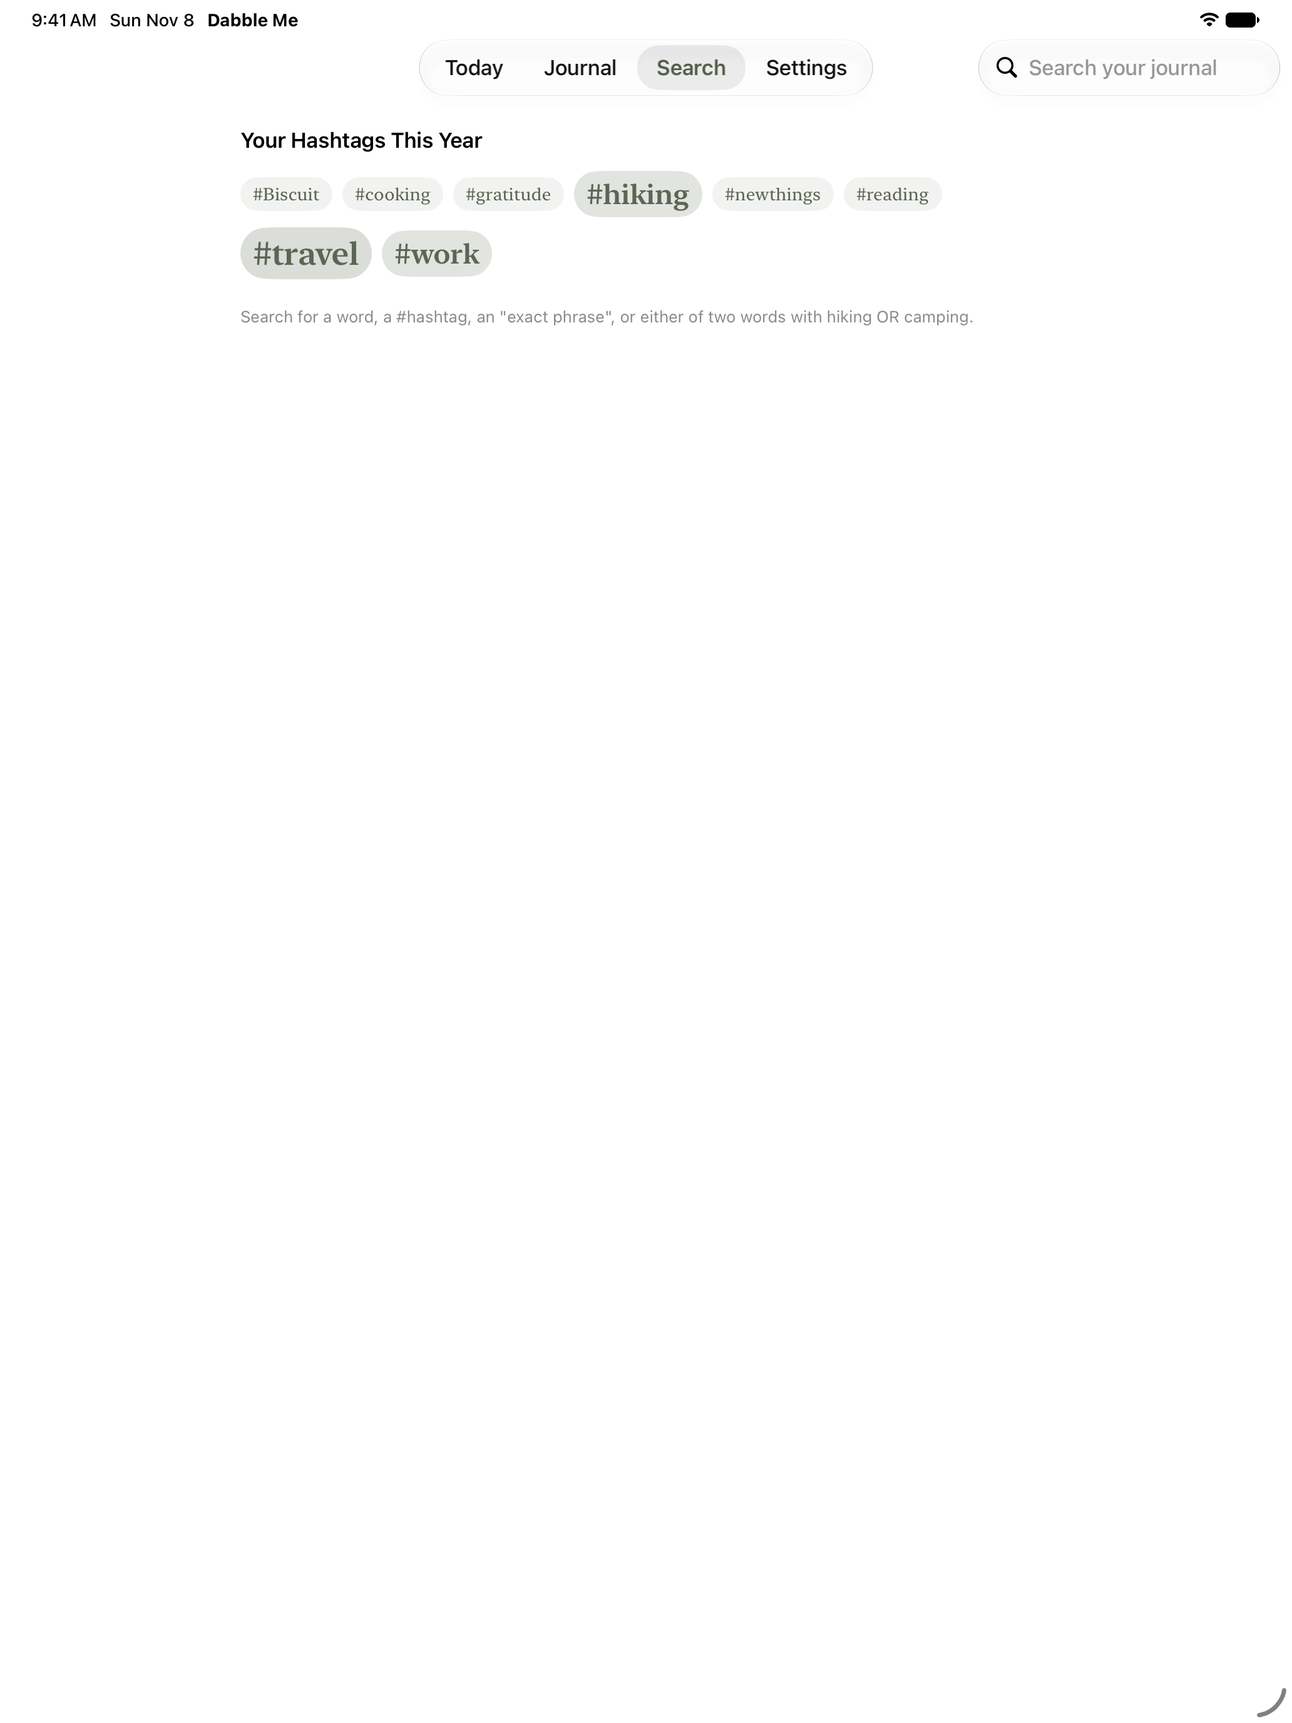
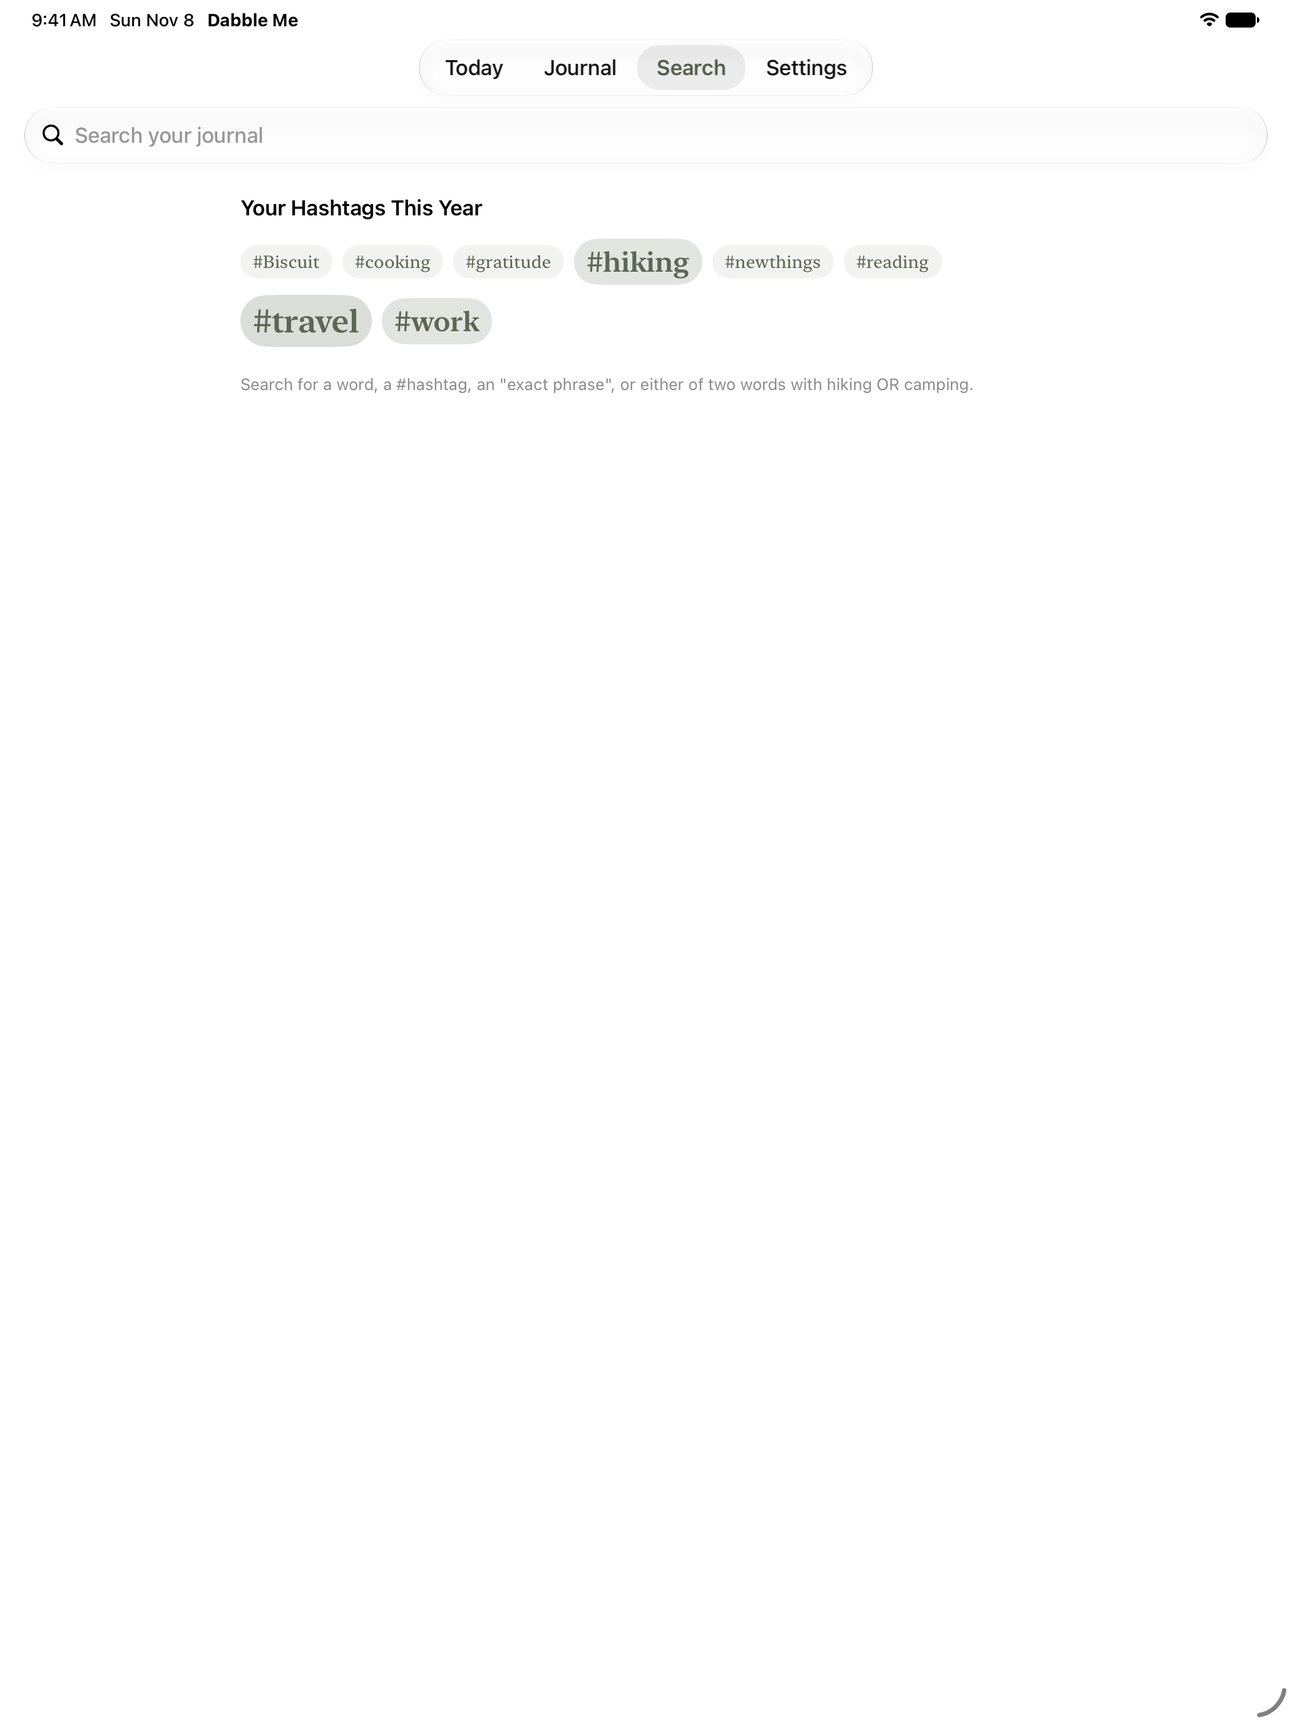
iOS: keyboard dictation only; sticky search field; photo X inside its corner
- Remove the in-app dictation mic. The keyboard's own dictation is
  better (on device for most languages, punctuation, emoji, voice
  editing) and two mics side by side were confusing. Drops the
  microphone and speech-recognition permission prompts too.
- Search keeps its field at the top while results scroll.
- The remove-photo X sits inside the thumbnail's corner instead of
  being clipped by the photo strip.
- Screenshots and copy updated; build 19.

diff --git a/ios/DabbleMe/Views/RichTextEditor.swift b/ios/DabbleMe/Views/RichTextEditor.swift
@@ -59,62 +59,6 @@ final class RichTextEditorModel {
         textDidChange()
     }
 
-    // MARK: - Dictation (PRO, on device)
-
-    private(set) var isDictating = false
-    var dictationError: String?
-    @ObservationIgnored private lazy var dictation = Dictation()
-    /// Where the current dictation's words are, so each new transcript replaces the last.
-    @ObservationIgnored private var dictationRange = NSRange(location: 0, length: 0)
-    @ObservationIgnored private var dictationPrefix = ""
-
-    func toggleDictation() {
-        if isDictating {
-            dictation.stop()
-        } else {
-            Task { await startDictation() }
-        }
-    }
-
-    func stopDictation() {
-        dictation.stop()
-    }
-
-    private func startDictation() async {
-        guard let textView else { return }
-        let selection = textView.selectedRange
-        let string = textView.text as NSString
-        // Separate from the word before the cursor.
-        let before = selection.location > 0 ? string.substring(with: NSRange(location: selection.location - 1, length: 1)) : "\n"
-        dictationPrefix = before.rangeOfCharacter(from: .whitespacesAndNewlines) == nil ? " " : ""
-        dictationRange = selection
-        dictation.onTranscript = { [weak self] text in self?.insertTranscript(text) }
-        dictation.onStateChange = { [weak self] listening in
-            self?.isDictating = listening
-            self?.onDictationStateChange(listening)
-        }
-        do {
-            try await dictation.start()
-        } catch {
-            dictationError = error.localizedDescription
-        }
-    }
-
-    @ObservationIgnored fileprivate var onDictationStateChange: (Bool) -> Void = { _ in }
-
-    private func insertTranscript(_ transcript: String) {
-        guard let textView, !transcript.isEmpty else { return }
-        let storage = textView.textStorage
-        guard dictationRange.location + dictationRange.length <= storage.length else { return }
-        let text = dictationPrefix + transcript
-        let attributes = textView.typingAttributes
-        storage.replaceCharacters(in: dictationRange, with: NSAttributedString(string: text, attributes: attributes))
-        dictationRange = NSRange(location: dictationRange.location, length: (text as NSString).length)
-        textView.selectedRange = NSRange(location: dictationRange.location + dictationRange.length, length: 0)
-        textView.scrollRangeToVisible(textView.selectedRange)
-        textDidChange()
-    }
-
     /// Replaces everything in the editor (e.g. "Start Over" on a restored draft).
     func replace(with blocks: [DocumentBlock]) {
         textView?.attributedText = RichText.attributedString(from: blocks, style: .journal)
@@ -243,13 +187,11 @@ struct EditorInsertItem {
 
 struct RichTextEditor: UIViewRepresentable {
     let model: RichTextEditorModel
-    /// Shows the dictation (microphone) button in the bar.
-    var allowsDictation = false
     var insertItems: [EditorInsertItem] = []
 
     /// Changes when the bar's buttons need rebuilding.
     fileprivate var barKey: String {
-        "\(allowsDictation)|" + insertItems.map { "\($0.title)\($0.isEnabled)\($0.subtitle ?? "")" }.joined(separator: "|")
+        insertItems.map { "\($0.title)\($0.isEnabled)\($0.subtitle ?? "")" }.joined(separator: "|")
     }
 
     func makeUIView(context: Context) -> UITextView {
@@ -305,17 +247,15 @@ struct RichTextEditor: UIViewRepresentable {
         fileprivate var barKey = ""
         /// The latest menu actions (their closures change as the composer's state does).
         var insertItems: [EditorInsertItem] = []
-        private weak var micItem: UIBarButtonItem?
 
         func makeToolbar(for editor: RichTextEditor) -> UIToolbar {
             let toolbar = UIToolbar(frame: CGRect(x: 0, y: 0, width: 320, height: 60))
             configure(toolbar, for: editor)
-            model.onDictationStateChange = { [weak self] listening in self?.updateMic(listening: listening) }
             return toolbar
         }
 
-        /// "+" (photos, hashtag suggestions), link, and dictation. Bold, italic and underline are in
-        /// the text's edit menu (Format), and typing "- " or "1. " starts a list.
+        /// "+" (photos, hashtag suggestions) and link. Bold, italic and underline are in the text's
+        /// edit menu (Format), typing "- " or "1. " starts a list, and the keyboard has dictation.
         func configure(_ toolbar: UIToolbar, for editor: RichTextEditor) {
             barKey = editor.barKey
             insertItems = editor.insertItems
@@ -343,19 +283,7 @@ struct RichTextEditor: UIViewRepresentable {
             }
             items.append(.flexibleSpace())
             items.append(item("link", "Link") { $0.beginLink() })
-            if editor.allowsDictation {
-                let mic = item("mic", "Dictate") { $0.toggleDictation() }
-                micItem = mic
-                items.append(mic)
-            }
             toolbar.items = items
-            updateMic(listening: model.isDictating)
-        }
-
-        private func updateMic(listening: Bool) {
-            micItem?.image = UIImage(systemName: listening ? "stop.circle.fill" : "mic")
-            micItem?.tintColor = listening ? .systemRed : nil
-            micItem?.accessibilityLabel = listening ? "Stop Dictating" : "Dictate"
         }
     }
 }
@@ -376,11 +304,6 @@ extension View {
             Button("Cancel", role: .cancel) {}
         } message: {
             Text("Select text first to link it, or add a web address on its own.")
-        }
-        .alert("Can't dictate", isPresented: .present($model.dictationError)) {
-            Button("OK", role: .cancel) {}
-        } message: {
-            Text(model.dictationError ?? "")
         }
     }
 }

diff --git a/ios/DabbleMeUITests/JournalViewsTests.swift b/ios/DabbleMeUITests/JournalViewsTests.swift
@@ -78,6 +78,11 @@ final class JournalViewsTests: XCTestCase {
         XCTAssertTrue(tag.exists)
         tag.tap()
         XCTAssertTrue(app.staticTexts.matching(NSPredicate(format: "label ENDSWITH 'entries' OR label ENDSWITH 'entry'")).firstMatch.waitForExistence(timeout: 10))
+        // The search field stays at the top while the results scroll.
+        app.swipeUp()
+        app.swipeUp()
+        XCTAssertTrue(app.searchFields.firstMatch.isHittable)
+        snap("search-sticky")
     }
 
     /// Lists hang in the editor; PRO gets on-device hashtag suggestions (when Apple Intelligence is available).
@@ -98,7 +103,7 @@ final class JournalViewsTests: XCTestCase {
         XCTAssertTrue(text.contains("• The rainbow"), text)
         XCTAssertTrue(text.contains("• Cold sandwiches"), text)
         XCTAssertFalse(app.buttons["Bold"].exists)
-        print("MIC_PRESENT=\(app.buttons["Dictate"].exists)")
+        XCTAssertFalse(app.toolbars.buttons["Dictate"].exists, "Dictation is the keyboard's own")
 
         app.buttons["Add"].tap()
         let suggest = app.buttons["Suggest Hashtags"]
@@ -221,34 +226,5 @@ final class JournalViewsTests: XCTestCase {
         chip.press(forDuration: 1.2)
         XCTAssertTrue(app.staticTexts.matching(NSPredicate(format: "label CONTAINS %@", "since entry")).firstMatch.waitForExistence(timeout: 5))
         snap("hashtag-age")
-    }
-
-    /// Tapping the mic asks for speech and microphone access and starts listening, without crashing.
-    func testDictationButtonStartsListening() throws {
-        let app = launch(["-DabbleDictationSkipAudio", "YES"])
-        let write = app.buttons["Write Today's Entry"].waitForExistence(timeout: 15) ? app.buttons["Write Today's Entry"] : app.buttons["Add to Today's Entry"]
-        XCTAssertTrue(write.waitForExistence(timeout: 5))
-        write.tap()
-        let editor = app.textViews["Entry"]
-        XCTAssertTrue(editor.waitForExistence(timeout: 5))
-        editor.tap()
-        if app.buttons["Continue"].waitForExistence(timeout: 2) { app.buttons["Continue"].tap() }
-        let mic = app.toolbars.buttons["Dictate"].firstMatch // not the keyboard's own dictation key
-        guard mic.waitForExistence(timeout: 3) else { throw XCTSkip("On-device speech isn't available on this simulator") }
-        mic.tap()
-        // Permission prompts (speech, then microphone) come from SpringBoard.
-        let springboard = XCUIApplication(bundleIdentifier: "com.apple.springboard")
-        for _ in 0..<2 {
-            let allow = springboard.buttons.matching(NSPredicate(format: "label IN {'Allow', 'OK'}")).firstMatch
-            if allow.waitForExistence(timeout: 4) { allow.tap() }
-        }
-        sleep(3)
-        XCTAssertEqual(app.state, .runningForeground, "The app should still be running after tapping the mic")
-        XCTAssertTrue(app.toolbars.buttons["Stop Dictating"].firstMatch.waitForExistence(timeout: 5), "Listening after permission")
-        snap("dictation")
-        let stop = app.toolbars.buttons["Stop Dictating"].firstMatch
-        if stop.exists { stop.tap() }
-        sleep(1)
-        XCTAssertEqual(app.state, .runningForeground)
     }
 }

diff --git a/ios/DabbleMe/Views/ComposeView.swift b/ios/DabbleMe/Views/ComposeView.swift
@@ -73,8 +73,7 @@ struct ComposeView: View {
             VStack(spacing: 0) {
                 if restoredDraft != nil { draftBanner }
                 Divider()
-                RichTextEditor(model: editor, allowsDictation: model.me?.isPro == true && Dictation.isSupported,
-                               insertItems: insertItems)
+                RichTextEditor(model: editor, insertItems: insertItems)
                     .overlay(alignment: .topLeading) {
                         if editor.isEmpty {
                             Text("How was your day?")
@@ -122,7 +121,6 @@ struct ComposeView: View {
             .confirmationDialog(isNew ? "Discard this entry?" : "Discard your changes?",
                                 isPresented: $confirmingDiscard, titleVisibility: .visible) {
                 Button("Discard", role: .destructive) {
-                    editor.stopDictation()
                     DraftStore.clear(draftKey)
                     dismiss()
                 }
@@ -141,7 +139,6 @@ struct ComposeView: View {
             } message: {
                 Text(suggestionError ?? "")
             }
-            .onDisappear { editor.stopDictation() }
             .onChange(of: photoItems) { Task { await preparePhotos() } }
             #if DEBUG
             .task { await attachDebugPhotos() }
@@ -321,8 +318,8 @@ struct ComposeView: View {
                 Image(systemName: "xmark.circle.fill")
                     .symbolRenderingMode(.palette)
                     .foregroundStyle(.white, .black.opacity(0.6))
+                    .padding(3) // inside the corner: the photo strip clips anything outside it
             }
-            .offset(x: 6, y: -6)
             .accessibilityLabel("Remove photo")
             .disabled(isSaving)
         }
@@ -421,7 +418,6 @@ struct ComposeView: View {
     }
 
     private func save() async {
-        editor.stopDictation()
         isSaving = true
         defer { isSaving = false }
         do {

diff --git a/ios/DabbleMe/Views/SearchView.swift b/ios/DabbleMe/Views/SearchView.swift
@@ -20,7 +20,9 @@ struct SearchView: View {
                     ProInfoView(feature: .search, showsDoneButton: false)
                 } else {
                     resultsList
-                        .searchable(text: $query, isPresented: $isSearchActive, prompt: "Search your journal")
+                        // Always visible at the top, not tucked away when the results scroll.
+                        .searchable(text: $query, isPresented: $isSearchActive,
+                                    placement: .navigationBarDrawer(displayMode: .always), prompt: "Search your journal")
                         .onChange(of: model.searchFocusRequest) { isSearchActive = true }
                         .onSubmit(of: .search) { Task { await search(reset: true) } }
                         .onChange(of: query) { _, newValue in

diff --git a/ios/README.md b/ios/README.md
@@ -1,8 +1,8 @@
 # Dabble Me for iOS
 
-Native SwiftUI companion to the email journal: Today (prompt + On This Day), the Journal timeline with List / Stats / Photos views, search with a hashtag cloud, writing and editing with rich text, photos and dictation, reminders, a Face ID lock, a home-screen widget, and on-device Apple Intelligence.
+Native SwiftUI companion to the email journal: Today (prompt + On This Day), the Journal timeline with List / Stats / Photos views, search with a hashtag cloud, writing and editing with rich text and photos, reminders, a Face ID lock, a home-screen widget, and on-device Apple Intelligence.
 
-Email is still the primary way people write. Plan rules (see `ios/AppStore/metadata.md` → Decisions): everyone can sign in, read, write text, and see Stats, Photos and the widget; photos, editing/deleting, search, On This Day, reminders, dictation and on-device AI are PRO.
+Email is still the primary way people write. Plan rules (see `ios/AppStore/metadata.md` → Decisions): everyone can sign in, read, write text, and see Stats, Photos and the widget; photos, editing/deleting, search, On This Day, reminders and on-device AI are PRO.
 
 ## Requirements
 
@@ -56,11 +56,11 @@ The simulator reaches `localhost` directly. On a phone, "localhost" is the phone
 | GET | `/api/v1/hashtags?days=365` | PRO. Hashtag counts for the Search tag cloud (`Api::HashtagCounts`) |
 | POST | `/api/v1/image_uploads` | PRO. `{photos: [{filename, content_type}]}` (max 8) → presigned S3 PUTs; the keys go to `POST /entries` |
 
-**Rich text editing.** The app never parses or sends raw HTML. `Api::EntryDocument` turns stored HTML into a `document`: a list of paragraph / bullet / number / rule blocks made of text runs that may be bold, italic, underlined or linked. That covers what the web editor (Summernote) and email ingestion produce, including `<div>` lines from email and `<hr>` between merged replies. The app edits the document in a native text view (bold, italic and underline from the text's Format menu; typing "- ", "* " or "1. " starts a list; the bar has "+" for photos and hashtag suggestions, link, and dictation) and sends it back, and the server rebuilds clean HTML from it (`to_html`). Entries with anything the document can't represent — inline styles, blockquotes, images, DabbleMeGPT replies, nested lists — come back with `document: null` and show "Edit on dabble.me", so an in-app edit can never drop formatting.
+**Rich text editing.** The app never parses or sends raw HTML. `Api::EntryDocument` turns stored HTML into a `document`: a list of paragraph / bullet / number / rule blocks made of text runs that may be bold, italic, underlined or linked. That covers what the web editor (Summernote) and email ingestion produce, including `<div>` lines from email and `<hr>` between merged replies. The app edits the document in a native text view (bold, italic and underline from the text's Format menu; typing "- ", "* " or "1. " starts a list; the bar has "+" for photos and hashtag suggestions, and link; dictation is the keyboard's own) and sends it back, and the server rebuilds clean HTML from it (`to_html`). Entries with anything the document can't represent — inline styles, blockquotes, images, DabbleMeGPT replies, nested lists — come back with `document: null` and show "Edit on dabble.me", so an in-app edit can never drop formatting.
 
 **Widget.** `DabbleMeWidget` (WidgetKit) reads a `WidgetSnapshot` the app writes to the `group.me.dabble.ios` App Group after each refresh: streak, whether today is written, today's prompt and (only if turned on in Settings → Privacy) a count of On This Day memories. Never entry text. Tapping it opens `me.dabble.app:/write` or `:/today`.
 
-**On device only.** Dictation uses `SFSpeechRecognizer` with `requiresOnDeviceRecognition`; hashtag suggestions, "Reflect on This Entry" (the on-device version of the web's DabbleMeGPT life-coach reply) and Today's "Prompt from My Recent Entries" use Apple Intelligence's on-device model (`FoundationModels`, iOS 26+, hidden where unavailable). Reminders, the Face ID lock and drafts are local too.
+**On device only.** Hashtag suggestions, "Reflect on This Entry" (the on-device version of the web's DabbleMeGPT life-coach reply) and Today's "Prompt from My Recent Entries" use Apple Intelligence's on-device model (`FoundationModels`, iOS 26+, hidden where unavailable). Reminders, the Face ID lock and drafts are local too.
 
 **Photos** are re-encoded on the device to a JPEG of at most 2400px, with all metadata removed (including GPS) before upload. The server then processes them the same way as MCP uploads (`ProcessEntryImageJob`).
 

diff --git a/ios/AppStore/metadata.md b/ios/AppStore/metadata.md
@@ -32,7 +32,6 @@ Copy for App Store Connect (app ID 6832151292, bundle ID `me.dabble.ios`). Chara
 > WRITE YOUR WAY
 > • Bold, italic and underline, links, and lists that start as you type "- " or "1." 
 > • Add up to 8 photos. Several become a beautiful collage automatically
-> • Dictate instead of typing, transcribed on your device
 > • A daily writing prompt, written just for you from your recent days (on devices with Apple Intelligence)
 > • Unfinished entries are saved as you type, even if the app closes
 > • Prefer email? Reply to Dabble Me's "How was your day?" email and it becomes an entry too
@@ -67,7 +66,7 @@ Copy for App Store Connect (app ID 6832151292, bundle ID `me.dabble.ios`). Chara
 > • Sign in with a passkey, password, or two-factor code
 > • Export everything, any time
 >
-> Free accounts can read their journal, write entries, and see their stats. Photos, search, On This Day, reminders, dictation, Apple Intelligence features, and AI connections are part of Dabble Me PRO.
+> Free accounts can read their journal, write entries, and see their stats. Photos, search, On This Day, reminders, Apple Intelligence features, and AI connections are part of Dabble Me PRO.
 
 **Keywords (100)**: these don't repeat words already in the name, which Apple indexes anyway, and use no third-party trademarks (guideline 2.3.7).
 
@@ -94,7 +93,7 @@ Data used to track you: **none**. Data linked to you, all for **App Functionalit
 | User Content → Photos or Videos | Photos attached to entries |
 | Identifiers → User ID | Account identity |
 
-The app has no analytics or crash SDKs, and these answers match `DabbleMe/Resources/PrivacyInfo.xcprivacy`. Not collected: dictation audio and Apple Intelligence features run on the device; reminders, the Face ID setting and drafts stay on the device; the widget reads a streak count the app stores in its App Group.
+The app has no analytics or crash SDKs, and these answers match `DabbleMe/Resources/PrivacyInfo.xcprivacy`. Not collected: Apple Intelligence features run on the device; reminders, the Face ID setting and drafts stay on the device; the widget reads a streak count the app stores in its App Group.
 
 ## App Review information
 
@@ -123,5 +122,5 @@ In `ios/App Store Screenshots/`: **iPhone 6.3"** at 1206 × 2622 (iPhone 18 Pro 
 ## Decisions
 
 - **In-app purchase:** ship as a free companion app (guideline 3.1.3(f)) with no purchasing and no links to buy. If App Review asks for in-app purchase for PRO, revisit.
-- **Free vs PRO in the app:** free accounts read and write text entries and see Stats, the Photos view and the widget; photos, editing/deleting, search (and its hashtag cloud), On This Day, reminders, dictation, AI connections and on-device AI features are PRO. Face ID lock and drafts are for everyone.
+- **Free vs PRO in the app:** free accounts read and write text entries and see Stats, the Photos view and the widget; photos, editing/deleting, search (and its hashtag cloud), On This Day, reminders, AI connections and on-device AI features are PRO. Dictation is the keyboard's own (no in-app mic). Face ID lock and drafts are for everyone.
 - **iPad:** supported in 1.0, so the submission needs the 13" iPad screenshot set too.
